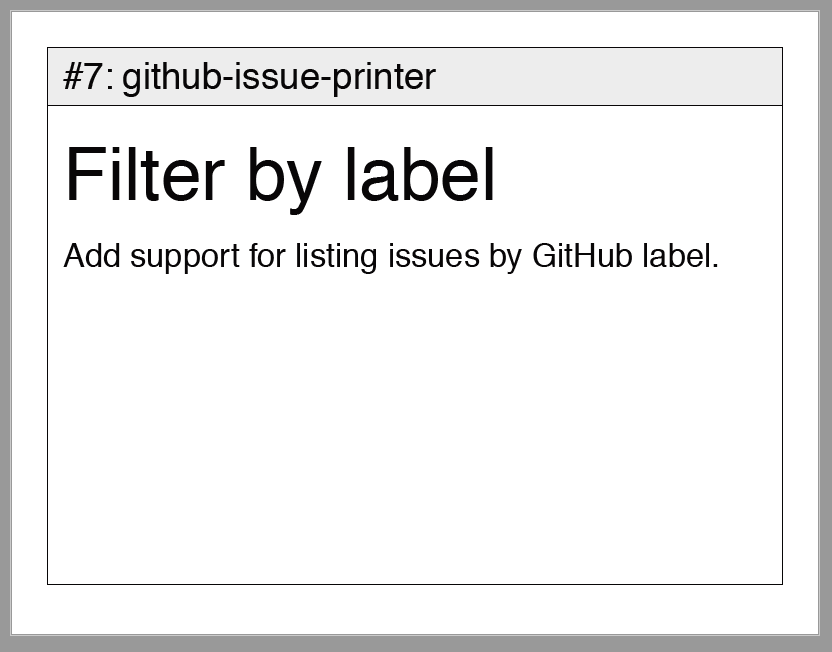
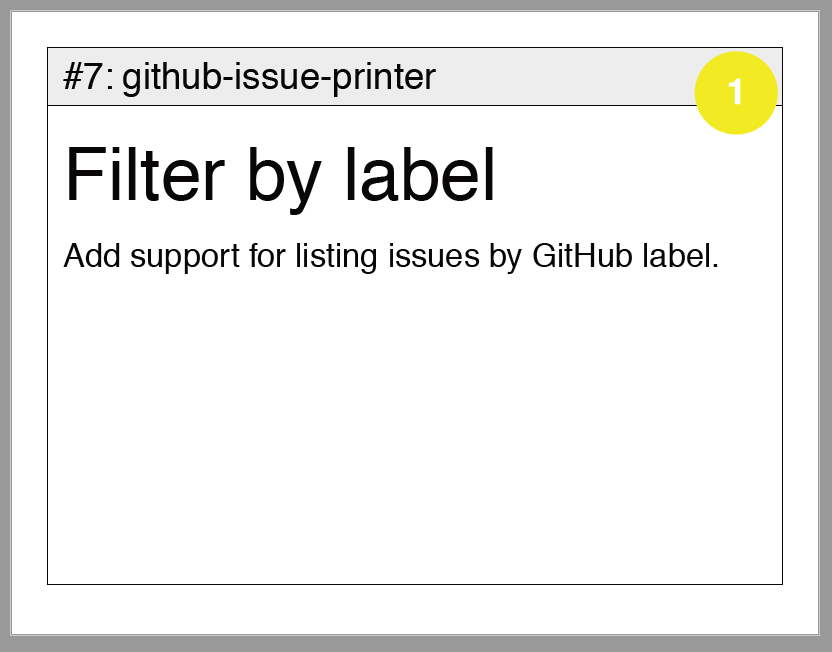
Add size labels

Changed region(s): [[0.8125, 0.0613, 0.9375, 0.2147]]

diff --git a/index.js b/index.js
@@ -16,6 +16,11 @@ log(`${packageInfo.name} v${packageInfo.version}`)
 
 const httpUtil = new HttpUtil()
 
+const SIZE_LABELS = [
+  'XS', 'S', 'M', 'L', 'XL',
+  '0', '1/2', '1', '2', '3', '5', '8', '13', '21'
+]
+
 args
   .version(packageInfo.version)
   .option('-t, --token [github_api_token]', 'Your GitHub API token', process.env.GITHUB_API_TOKEN)
@@ -24,8 +29,14 @@ args
   .option('-m, --milestone [number]', 'Repo milestone number filter (from the GitHub URL)', process.env.REPO_MILESTONE)
   .option('-l, --labels [label_list]', 'Comma-separated list of labels to filter on', process.env.REPO_LABELS)
   .option('-i, --issues [issue_nums]', 'Comma-separated list of issue numbers to include', process.env.REPO_ISSUES)
+  .option('-s, --sizes', 'Flag to enable size labels on cards')
   .option('--project-column [url]', 'URL of GitHub project column to be printed', process.env.PROJECT_COLUMN_URL)
   .parse(process.argv)
+
+// flag options can't have "values" so do the environment variable setting here
+if (process.env.INCLUDE_SIZE_LABELS) {
+  args.sizes = true
+}
 
 // verify that we have enough info to do something useful
 if (!args.token) {
@@ -105,11 +116,12 @@ async function processProjectColumnUrl (bearerToken, url) {
         number: cardContent.number,
         title: sanitizeText(cardContent.title),
         repo: cardContent.repository_url.substring(cardContent.repository_url.lastIndexOf('/') + 1),
-        body: sanitizeText(cardContent.body)
+        body: sanitizeText(cardContent.body),
+        sizeLabel: cardContent.labels.find((label) => SIZE_LABELS.includes(label.name))
       })
     }
   }
-  pdf.createPdf(cards, { renderBody: args.body })
+  pdf.createPdf(cards, { renderBody: args.body, renderSizeLabels: args.sizes })
 }
 
 function getIssuesJson (URL, callback) {

diff --git a/lib/util/pdf.js b/lib/util/pdf.js
@@ -2,7 +2,7 @@ const PDFKit = require('pdfkit')
 const _ = require('lodash')
 
 module.exports = {
-  createPdf: function (issues) {
+  createPdf: function (issues, { renderSizeLabels }) {
     const pdfDoc = new PDFKit({ autoFirstPage: false })
     pdfDoc.pipe(process.stdout)
 
@@ -20,6 +20,7 @@ module.exports = {
       let issueNum = issue.number ? `#${issue.number}` : ''
       let cardTitle = issue.title
       let repoName = issue.repo ? issue.repo : ''
+      let sizeLabel = issue.sizeLabel
 
       let borderStartX = pdfDoc.page.margins.left - 15
       let borderStartY = pdfDoc.page.margins.top - 15
@@ -35,6 +36,17 @@ module.exports = {
         // draw a light gray background for header with black outline
         pdfDoc.rect(headerBoxStartX, headerBoxStartY, headerBoxEndX, headerBoxEndY).fillOpacity(0.4).fillAndStroke('lightgray', 'black')
       }
+
+      if (renderSizeLabels && sizeLabel) {
+        let center = { x: borderEndX  - 10, y: borderStartY + 45 }
+        pdfDoc.circle(center.x, center.y, 40).fillOpacity(1).fill(`#${sizeLabel.color}`)
+        pdfDoc.font('Helvetica-Bold').fillColor('white').fontSize(36)
+        let textWidth = pdfDoc.widthOfString(sizeLabel.name)
+        pdfDoc.text(sizeLabel.name, center.x - Math.floor(textWidth/2), borderStartY + 30)
+
+        // reset the text starting point
+        pdfDoc.text('', 50, 50)
+      }    
 
       // back to regular opacity for header text
       pdfDoc.fillOpacity(1.0).fill('black')

diff --git a/README.md b/README.md
@@ -28,6 +28,7 @@ $ node index.js --help
     -m, --milestone [number]        Repo milestone number filter (from the GitHub URL)
     -l, --labels [label_list]       Comma-separated list of labels to filter on
     -i, --issues [issue_nums]       Comma-separated list of issue numbers to include
+    -s, --sizes                     Flag to enable size labels on cards
     --project-column                URL of a GitHub Project column from which to retrieve issues
     -h, --help                      Output usage information
 ```
@@ -47,6 +48,7 @@ Input parameters can be configured via the following input parameters (instead o
 | `REPO_LABELS`        | `--labels`
 | `REPO_ISSUES`        | `--issues`
 | `PROJECT_COLUMN_URL` | `--project-column`
+| `INCLUDE_SIZE_LABELS`| `--sizes`
 
 ## Execution
 
@@ -56,14 +58,14 @@ You may run the program via Docker as follows:
 
 ```console
 export GITHUB_API_TOKEN=xxxxxxxxxxxxx
-docker run -e GITHUB_API_TOKEN -e REPO_OWNER=<OWNER> -e REPO_NAME=<REPO> -e REPO_MILESTONE=<NUM> jamiemjennings/github-issue-printer > output.pdf
+docker run -e GITHUB_API_TOKEN -e REPO_OWNER=<OWNER> -e REPO_NAME=<REPO> -e REPO_MILESTONE=<NUM> -e INCLUDE_SIZE_LABELS=true jamiemjennings/github-issue-printer > output.pdf
 ```
 
 For example:
 
 ```console
 export GITHUB_API_TOKEN=xxxxxxxxxxxxx
-docker run -e GITHUB_API_TOKEN -e REPO_OWNER=jamiemjennings -e REPO_NAME=github-issue-printer -e REPO_MILESTONE=1 jamiemjennings/github-issue-printer > ~/output.pdf
+docker run -e GITHUB_API_TOKEN -e REPO_OWNER=jamiemjennings -e REPO_NAME=github-issue-printer -e REPO_MILESTONE=1 -e INCLUDE_SIZE_LABELS=true jamiemjennings/github-issue-printer > ~/output.pdf
 ```
 
 You may then open output.pdf with your preferred PDF reader to review/print.
@@ -73,7 +75,7 @@ You may then open output.pdf with your preferred PDF reader to review/print.
 ```console
 export GITHUB_API_TOKEN=xxxxxxxxxxxxx
 npm install
-node index.js --owner <OWNER> --repo <REPO> --milestone <NUM> > output.pdf
+node index.js --owner <OWNER> --repo <REPO> --milestone <NUM> --sizes > output.pdf
 ```
 
 For example:
@@ -81,7 +83,7 @@ For example:
 ```console
 export GITHUB_API_TOKEN=xxxxxxxxxxxxx
 npm install
-node index.js --owner jamiemjennings --repo github-issue-printer --milestone 1 > output.pdf
+node index.js --owner jamiemjennings --repo github-issue-printer --milestone 1 --sizes > output.pdf
 ```
 
 ## GitHub Projects: Print Column Issues
